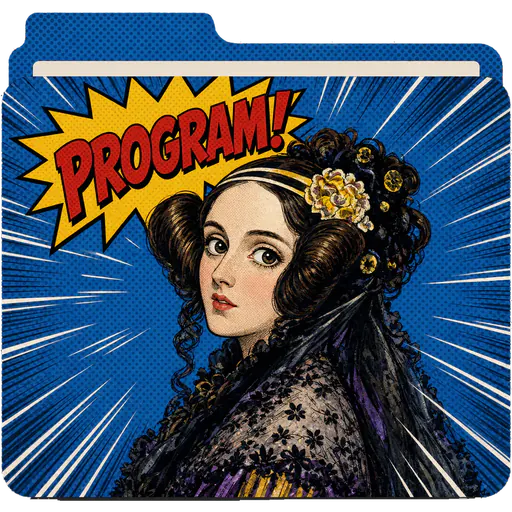
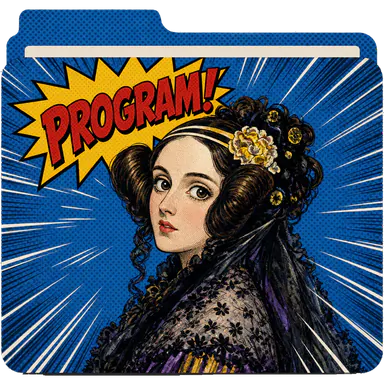
Welcome: 26 skins, none shown twice, with three marble statues in the middle
Each wave of the intro now takes five new frames and each flip its own, so no picture shows
twice: 10 paintings, 11 pop-art portraits, one pastel, one colour, and three marble statues from a
pack still being made. The statues take the middle folder in three of the four waves, the last
just before the logo. Neighbours still come from different packs, the middle folder always wears
a picture, and plain folders stay at the ends. frameAt and spinFrameAt, with the wave timings
beside them, make it hard to repeat a frame by accident, and the tests check every rule.

Each picture is drawn at the size it's shown at: 512 px in the middle, 384 px beside it, 288 px
at the ends, and 320 px for the 75 ms flips. So 26 frames take 732 KB, not much more than the 565
KB twelve took before.

diff --git a/src/assets/onboarding/index.ts b/src/assets/onboarding/index.ts
@@ -1,58 +1,90 @@
 /**
- * The pictures the first-launch intro flips through: paintings from Classic Art and portraits from
- * Scientists - Pop Art, with one plain folder each from Soft Rainbow and Colours, rendered by the
- * app's own compositor at 512 px (the same pixels the gallery shows), and the FolderSkin logo the
- * intro lands on.
+ * The pictures the first-launch intro shows, and the FolderSkin logo it lands on. The folders come
+ * from the community packs, Classic Art paintings and Scientists - Pop Art portraits with one plain
+ * folder each from Soft Rainbow and Colours, and three marble statues from a pack on its way.
+ * Each shows once: five for every wave, then one for every flip of the middle folder
+ * (INTRO_FRAME_COUNT in src/lib/onboarding.ts). Side by side, folders never come from the same
+ * pack, the middle one always wears a picture, and a plain folder only turns up at an end
+ * (src/lib/onboarding.test.ts holds all of it).
  *
- * They're the only pictures the app ships, so they stay small (WebP). The order is the intro's:
- * with `frameAt` in src/lib/onboarding.ts, every wave alternates packs, so no two folders side by
- * side come from the same one, the middle folder always wears a painting or a portrait, and a
- * plain folder turns up at most once a wave, at an end (src/lib/onboarding.test.ts holds all of
- * it).
+ * They're the only pictures the app ships, so each is drawn at the size it's shown at: 512 px for
+ * the middle folder, 384 px beside it, 288 px at the ends, and 320 px for the quick flips, whose
+ * frames are gone in 75 ms. The app's own compositor draws them (the gallery's pixels):
  *
- * To make one again, from a pack picture (or assets/logo/folderskin-logo-cutout.png for the logo,
- * at -q 88 -alpha_q 100):
- *
- *   cargo run -p folderskin-tools -- render community/packs/classic-art/mona-lisa.webp --size 512 --out mona-lisa.png
+ *   cargo run -p folderskin-tools -- render community/packs/classic-art/mona-lisa.webp --size 384 --out mona-lisa.png
  *   cwebp -q 78 -alpha_q 90 -m 6 -sharp_yuv mona-lisa.png -o src/assets/onboarding/mona-lisa.webp
+ *
+ * (-q 70 for the flips; the logo is assets/logo/folderskin-logo-cutout.png at -q 88 -alpha_q 100.)
  */
 import adaLovelace from "./ada-lovelace.webp";
+import alanTuring from "./alan-turing.webp";
 import archimedes from "./archimedes.webp";
 import babyBlueIce from "./baby-blue-ice.webp";
 import blue from "./blue.webp";
+import breezingUp from "./breezing-up.webp";
+import carlSagan from "./carl-sagan.webp";
+import charlesDarwin from "./charles-darwin.webp";
+import compositionViii from "./composition-viii.webp";
+import galileoGalilei from "./galileo-galilei.webp";
 import girlWithAPearlEarring from "./girl-with-a-pearl-earring.webp";
+import graceHopper from "./grace-hopper.webp";
 import green from "./green.webp";
 import isaacNewton from "./isaac-newton.webp";
+import katherineJohnson from "./katherine-johnson.webp";
 import logo from "./logo.webp";
+import luncheonOfTheBoatingParty from "./luncheon-of-the-boating-party.webp";
 import marieCurie from "./marie-curie.webp";
 import monaLisa from "./mona-lisa.webp";
+import napoleonCrossingTheAlps from "./napoleon-crossing-the-alps.webp";
 import nikolaTesla from "./nikola-tesla.webp";
 import orange from "./orange.webp";
 import purple from "./purple.webp";
+import statueDisco from "./statue-disco.webp";
+import statueGaze from "./statue-gaze.webp";
+import statueOpenArms from "./statue-open-arms.webp";
+import theAstronomer from "./the-astronomer.webp";
 import theLadyOfShalott from "./the-lady-of-shalott.webp";
 import theNinthWave from "./the-ninth-wave.webp";
 import wandererAboveTheSeaOfFog from "./wanderer-above-the-sea-of-fog.webp";
 
-/** Every frame of the intro and the pack it comes from, in the intro's order. */
+const CLASSIC = "classic-art";
+const SCIENTISTS = "scientists-pop-art";
+/** The marble statues' pack, not published yet. */
+const STATUES = "statues";
+
+/** Every frame of the intro and the pack it comes from, in the order they show. */
 export const INTRO: { src: string; pack: string }[] = [
-  { src: monaLisa, pack: "classic-art" },
-  { src: theNinthWave, pack: "classic-art" },
-  // the middle folder in the third wave
-  { src: archimedes, pack: "scientists-pop-art" },
-  // at the left end of the last wave
-  { src: orange, pack: "colours" },
-  // the middle folder in the first wave
-  { src: theLadyOfShalott, pack: "classic-art" },
-  { src: wandererAboveTheSeaOfFog, pack: "classic-art" },
-  { src: marieCurie, pack: "scientists-pop-art" },
-  // the middle folder in the last wave
-  { src: adaLovelace, pack: "scientists-pop-art" },
-  // at the right end of the first wave
+  // the first wave, left to right; the middle one is the biggest
+  { src: galileoGalilei, pack: SCIENTISTS },
+  { src: monaLisa, pack: CLASSIC },
+  { src: statueDisco, pack: STATUES },
+  { src: marieCurie, pack: SCIENTISTS },
   { src: babyBlueIce, pack: "soft-rainbow" },
-  // the middle folder in the second wave
-  { src: girlWithAPearlEarring, pack: "classic-art" },
-  { src: isaacNewton, pack: "scientists-pop-art" },
-  { src: nikolaTesla, pack: "scientists-pop-art" },
+  // the second wave
+  { src: theNinthWave, pack: CLASSIC },
+  { src: archimedes, pack: SCIENTISTS },
+  { src: girlWithAPearlEarring, pack: CLASSIC },
+  { src: nikolaTesla, pack: SCIENTISTS },
+  { src: orange, pack: "colours" },
+  // the third wave
+  { src: wandererAboveTheSeaOfFog, pack: CLASSIC },
+  { src: adaLovelace, pack: SCIENTISTS },
+  { src: statueGaze, pack: STATUES },
+  { src: theLadyOfShalott, pack: CLASSIC },
+  { src: isaacNewton, pack: SCIENTISTS },
+  // the last wave
+  { src: charlesDarwin, pack: SCIENTISTS },
+  { src: napoleonCrossingTheAlps, pack: CLASSIC },
+  { src: statueOpenArms, pack: STATUES },
+  { src: luncheonOfTheBoatingParty, pack: CLASSIC },
+  { src: graceHopper, pack: SCIENTISTS },
+  // the middle folder's flips on its way to the logo
+  { src: theAstronomer, pack: CLASSIC },
+  { src: alanTuring, pack: SCIENTISTS },
+  { src: breezingUp, pack: CLASSIC },
+  { src: katherineJohnson, pack: SCIENTISTS },
+  { src: compositionViii, pack: CLASSIC },
+  { src: carlSagan, pack: SCIENTISTS },
 ];
 
 export const INTRO_FRAMES = INTRO.map((frame) => frame.src);

diff --git a/src/lib/onboarding.test.ts b/src/lib/onboarding.test.ts
@@ -4,9 +4,13 @@ import {
   defaultPicks,
   frameAt,
   fromProgress,
+  INTRO_FRAME_COUNT,
   INTRO_SLOTS,
+  INTRO_SPINS,
+  INTRO_WAVES,
   installFraction,
   installLine,
+  spinFrameAt,
   toInstall,
 } from "./onboarding";
 import { INTRO } from "../assets/onboarding";
@@ -15,37 +19,50 @@ const classic = { id: "classic-art", name: "Classic Art", added: false };
 const colours = { id: "colours", name: "Colours", added: false };
 const night = { id: "night-prints", name: "Night prints", added: false };
 
-describe("frameAt", () => {
-  it("never shows one frame on two folders at once", () => {
-    for (let step = 0; step < 12; step++) {
-      const frames = Array.from({ length: INTRO_SLOTS }, (_, slot) => frameAt(slot, step, 12));
-      expect(new Set(frames).size).toBe(INTRO_SLOTS);
-    }
-  });
+/** Every frame the intro shows, in order: each wave's folders left to right, then the flips. */
+function introOrder(): number[] {
+  const waves = Array.from({ length: INTRO_WAVES }, (_, wave) => Array.from({ length: INTRO_SLOTS }, (_, slot) => frameAt(slot, wave)));
+  const spins = Array.from({ length: INTRO_SPINS }, (_, i) => spinFrameAt(i + 1));
+  return [...waves.flat(), ...spins];
+}
 
-  it("changes every folder at every step", () => {
-    for (let slot = 0; slot < INTRO_SLOTS; slot++) {
-      for (let step = 0; step < 12; step++) expect(frameAt(slot, step + 1, 12)).not.toBe(frameAt(slot, step, 12));
-    }
+describe("frameAt and spinFrameAt", () => {
+  it("show every frame exactly once", () => {
+    const order = introOrder();
+    expect(order).toHaveLength(INTRO_FRAME_COUNT);
+    expect([...order].sort((a, b) => a - b)).toEqual(Array.from({ length: INTRO_FRAME_COUNT }, (_, i) => i));
   });
 });
 
 describe("the intro's frames", () => {
-  it("come from every pack, alternate packs side by side, and keep plain folders to the ends", () => {
-    const pictures = ["classic-art", "scientists-pop-art"];
-    expect(new Set(INTRO.map((f) => f.pack)).size).toBe(4);
-    // four waves: WAVES in Onboarding.tsx
-    for (let step = 0; step < 4; step++) {
-      const shown = Array.from({ length: INTRO_SLOTS }, (_, slot) => INTRO[frameAt(slot, step, INTRO.length)].pack);
-      const wave = `wave ${step}: ${shown.join(", ")}`;
-      expect(shown, wave).toContain("classic-art");
-      expect(shown, wave).toContain("scientists-pop-art");
-      expect(pictures, wave).toContain(shown[Math.floor(INTRO_SLOTS / 2)]);
+  const pictures = ["classic-art", "scientists-pop-art", "statues"];
+  const middle = Math.floor(INTRO_SLOTS / 2);
+
+  it("are one picture for every folder of every wave and every flip", () => {
+    expect(INTRO).toHaveLength(INTRO_FRAME_COUNT);
+    expect(new Set(INTRO.map((f) => f.src)).size).toBe(INTRO.length);
+  });
+
+  it("never put two folders from one pack side by side, and keep plain folders to the ends", () => {
+    for (let w = 0; w < INTRO_WAVES; w++) {
+      const shown = Array.from({ length: INTRO_SLOTS }, (_, slot) => INTRO[frameAt(slot, w)].pack);
+      const wave = `wave ${w}: ${shown.join(", ")}`;
       shown.slice(1).forEach((pack, i) => expect(pack, `${wave}, slots ${i} and ${i + 1}`).not.toBe(shown[i]));
+      expect(pictures, wave).toContain(shown[middle]);
       const plain = shown.flatMap((pack, slot) => (pictures.includes(pack) ? [] : [slot]));
       expect(plain.length, wave).toBeLessThanOrEqual(1);
       for (const slot of plain) expect([0, INTRO_SLOTS - 1], wave).toContain(slot);
     }
+  });
+
+  it("flip the middle folder through pictures, never two from one pack in a row", () => {
+    const flips = [frameAt(middle, INTRO_WAVES - 1), ...Array.from({ length: INTRO_SPINS }, (_, i) => spinFrameAt(i + 1))].map((f) => INTRO[f].pack);
+    for (const pack of flips) expect(pictures).toContain(pack);
+    flips.slice(1).forEach((pack, i) => expect(pack, `flips ${i} and ${i + 1}`).not.toBe(flips[i]));
+  });
+
+  it("come from every community pack", () => {
+    expect(new Set(INTRO.map((f) => f.pack))).toEqual(new Set(["classic-art", "scientists-pop-art", "statues", "soft-rainbow", "colours"]));
   });
 });
 

diff --git a/src/components/Onboarding.tsx b/src/components/Onboarding.tsx
@@ -7,9 +7,12 @@ import {
   frameAt,
   fromProgress,
   INTRO_SLOTS,
+  INTRO_SPINS,
+  INTRO_WAVE_TIMES,
   installFraction,
   installLine,
   type InstallState,
+  spinFrameAt,
   toInstall,
 } from "../lib/onboarding";
 import { licenseLabel } from "../lib/packs";
@@ -26,16 +29,13 @@ import { RefreshCwIcon } from "./icons/refresh-cw";
 
 /** The middle folder of the intro, the one that lands on the logo. */
 const HERO = Math.floor(INTRO_SLOTS / 2);
-const FRAMES = INTRO_FRAMES.length;
 
-/** The intro's timeline, in ms from when its pictures are ready: four waves of new skins... */
-const WAVES = [0, 950, 1850, 2750];
-/** ...then the side folders fold into the middle one while it flips through a few more... */
+// The intro's timeline, in ms from when its pictures are ready: the waves of new skins
+// (INTRO_WAVE_TIMES), then the side folders fold into the middle one while it flips through
+// INTRO_SPINS more, until it lands on the logo, which then makes room for the words.
 const LAND_AT = 3400;
-const SPINS = 6;
 const SPIN_EVERY = 75;
-/** ...until it lands on the logo, which then makes room for the words. */
-const LOGO_AT = LAND_AT + SPINS * SPIN_EVERY + 60;
+const LOGO_AT = LAND_AT + INTRO_SPINS * SPIN_EVERY + 60;
 const WELCOME_AT = LOGO_AT + 650;
 
 /** How long the pictures may take to decode before the intro starts anyway. */
@@ -157,9 +157,9 @@ function Welcome({ replay, onNext }: { replay: boolean; onNext: () => void }) {
     void decodeAll([...INTRO_FRAMES, LOGO], DECODE_WAIT).then(() => {
       if (!live || skipped.current) return;
       setReady(true);
-      WAVES.forEach((ms, i) => i > 0 && at(ms, () => setStep(i)));
+      INTRO_WAVE_TIMES.forEach((ms, i) => i > 0 && at(ms, () => setStep(i)));
       at(LAND_AT, () => setPhase("landing"));
-      for (let k = 1; k <= SPINS; k++) at(LAND_AT + (k - 1) * SPIN_EVERY, () => setSpin(k));
+      for (let k = 1; k <= INTRO_SPINS; k++) at(LAND_AT + (k - 1) * SPIN_EVERY, () => setSpin(k));
       at(LOGO_AT, () => setPhase("logo"));
       at(WELCOME_AT, () => setPhase("welcome"));
     });
@@ -190,8 +190,6 @@ function Welcome({ replay, onNext }: { replay: boolean; onNext: () => void }) {
     return () => clearTimeout(t);
   }, [phase, instant]);
 
-  const lastWave = WAVES.length - 1;
-  const spinFrame = (k: number) => (frameAt(HERO, lastWave, FRAMES) + k) % FRAMES;
   const landed = phase === "logo" || phase === "welcome";
 
   return (
@@ -211,9 +209,9 @@ function Welcome({ replay, onNext }: { replay: boolean; onNext: () => void }) {
                 {slot === HERO && landed ? (
                   <img key="logo" className="welcome-skin is-logo" src={LOGO} alt="" draggable={false} />
                 ) : slot === HERO && spin > 0 ? (
-                  <Flip key={`spin-${spin}`} from={null} to={spinFrame(spin)} fast />
+                  <Flip key={`spin-${spin}`} from={null} to={spinFrameAt(spin)} fast />
                 ) : (
-                  <Flip key={`wave-${step}`} from={step > 0 ? frameAt(slot, step - 1, FRAMES) : null} to={frameAt(slot, step, FRAMES)} first={step === 0} />
+                  <Flip key={`wave-${step}`} from={step > 0 ? frameAt(slot, step - 1) : null} to={frameAt(slot, step)} first={step === 0} />
                 )}
               </span>
               ),

diff --git a/src/lib/onboarding.ts b/src/lib/onboarding.ts
@@ -10,13 +10,23 @@ export const DEFAULT_PACK = "classic-art";
 
 /** How many folders the intro shows side by side; the middle one is the biggest. */
 export const INTRO_SLOTS = 5;
+/** When all of them change to new skins, in ms from when the intro's pictures are ready. */
+export const INTRO_WAVE_TIMES = [0, 950, 1850, 2750];
+/** How many times all of them change to new skins. */
+export const INTRO_WAVES = INTRO_WAVE_TIMES.length;
+/** How many more skins the middle folder flips through on its way to the logo. */
+export const INTRO_SPINS = 6;
+/** Every folder in every wave and every flip wears a picture of its own: none shows twice. */
+export const INTRO_FRAME_COUNT = INTRO_SLOTS * INTRO_WAVES + INTRO_SPINS;
 
-/**
- * The frame folder `slot` wears at `step` of the intro, out of `frames`. The five folders never
- * wear the same frame at once, and each one changes at every step.
- */
-export function frameAt(slot: number, step: number, frames: number): number {
-  return (slot * 2 + step * 5) % frames;
+/** The frame folder `slot` wears in wave `wave`: each wave takes the next five. */
+export function frameAt(slot: number, wave: number): number {
+  return wave * INTRO_SLOTS + slot;
+}
+
+/** The frame of the middle folder's `spin`th flip on its way to the logo, counting from 1. */
+export function spinFrameAt(spin: number): number {
+  return INTRO_SLOTS * INTRO_WAVES + spin - 1;
 }
 
 /** Where one pack is in being installed. */

diff --git a/CHANGELOG.md b/CHANGELOG.md
@@ -17,9 +17,9 @@ First release. The date lands here when the `v0.1.0` tag is pushed.
 - Apply a folder icon on macOS, Windows and Linux from one rendering path in
   `folderskin-core`, so the gallery preview and the icon written to disk are the same
   pixels.
-- A first-launch welcome: five folders try on skins from the community packs, mostly paintings
-  and pop-art portraits with no two neighbours from one pack, fold into one and land on the logo,
-  whose **Let's go** arrow nudges until it's pressed. Then the community's packs are offered with
+- A first-launch welcome: five folders try on 26 skins, none of them twice and no two neighbours
+  from one pack (paintings, pop-art portraits and marble statues, with a couple of plain folders),
+  fold into one and land on the logo, whose **Let's go** arrow nudges until it's pressed. Then the community's packs are offered with
   Classic Art picked for you. Each pack shows
   its progress, nothing can be skipped or undone while one is being added, and a pack that fails
   can be tried again or left for later from Community. It shows once; a click or a key skips the

diff --git a/docs/ARCHITECTURE.md b/docs/ARCHITECTURE.md
@@ -344,7 +344,7 @@ inspector at all.
 Under 15 MB installed. The macOS app bundle (Apple Silicon) is the stripped release binary, the
 1.4 MB app icon and a 1 KB `Info.plist`. The binary carries the Rust code and the frontend,
 which Tauri embeds, including a 165 KB variable font (Manrope) and the first-launch welcome's
-565 KB of pictures (folders from each community pack, and the logo). Once FolderSkin stopped shipping skins the binary measured 7.0 MB and the
+732 KB of pictures (26 folders, each drawn at the size it's shown at, and the logo). Once FolderSkin stopped shipping skins the binary measured 7.0 MB and the
 bundle 8.5 MB; with 2.3 MB of built-in skins they had been 8.7 MB and 10.2 MB. The updater
 added 0.25 MB, to a 7.3 MB binary and an 8.8 MB bundle. `image` is built with `default-features = false` and
 only `png`, `jpeg` and `webp`, and the release profile uses `opt-level = "s"`, LTO and one
